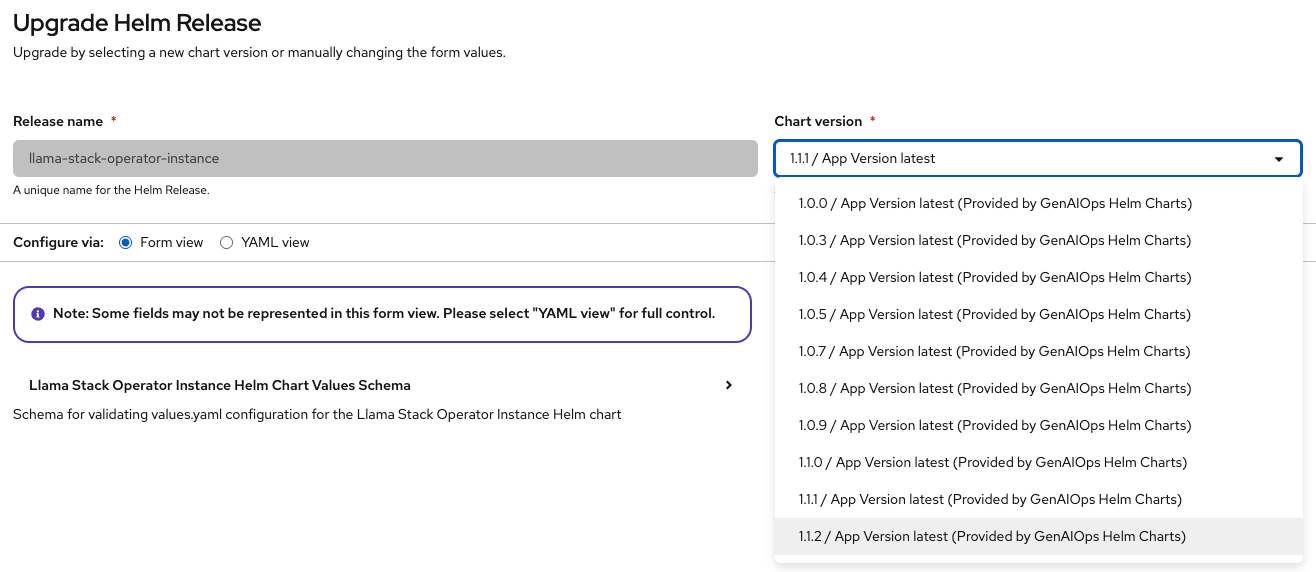
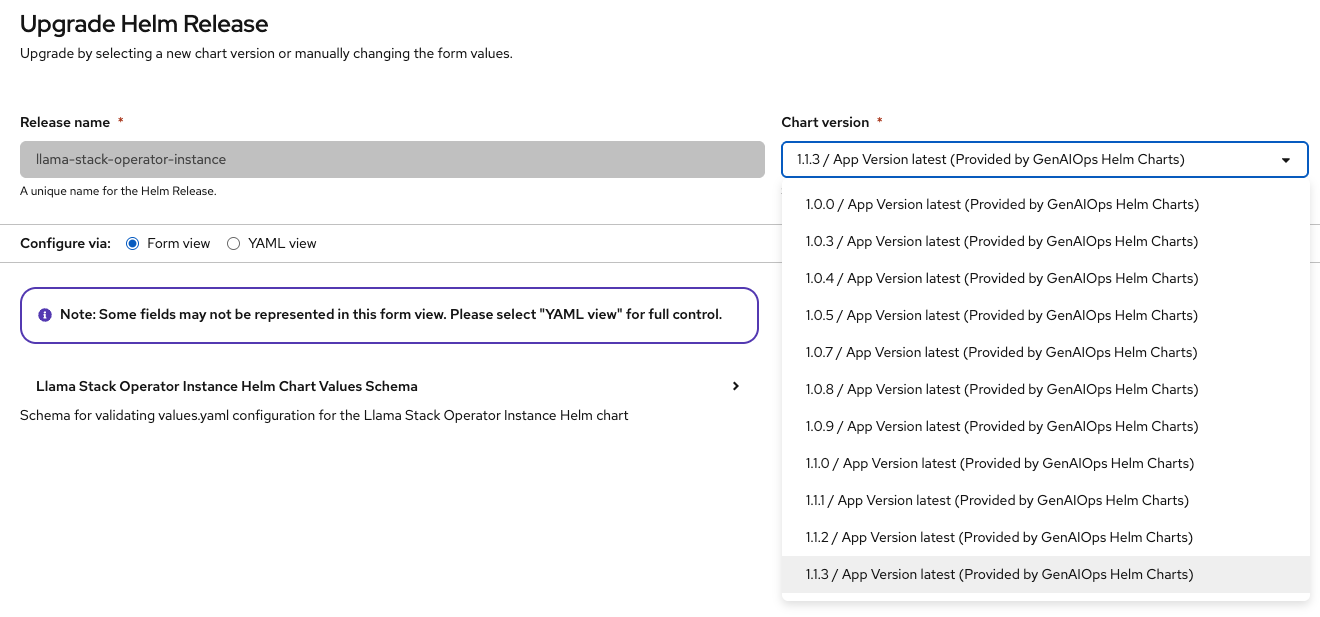
replace minor

diff --git a/docs/6-honor-code/2-guardrails_orchestrator.md b/docs/6-honor-code/2-guardrails_orchestrator.md
@@ -24,7 +24,7 @@ In the notebook, we directly talked with model and the detectors. But we have Ll
 
 1. In your `<USER_NAME>-canopy` environment, let's update Llama Stack config. Go to Helm > Releases > llama-stack-operator-instance > Upgrade
 
-  Make sure you choose latest, which is `1.1.2` in this case.
+  Make sure you choose latest, which is `1.1.3` in this case.
 
   ![llama-stack-upgrade.](./images/llama-stack-upgrade.png)
 
